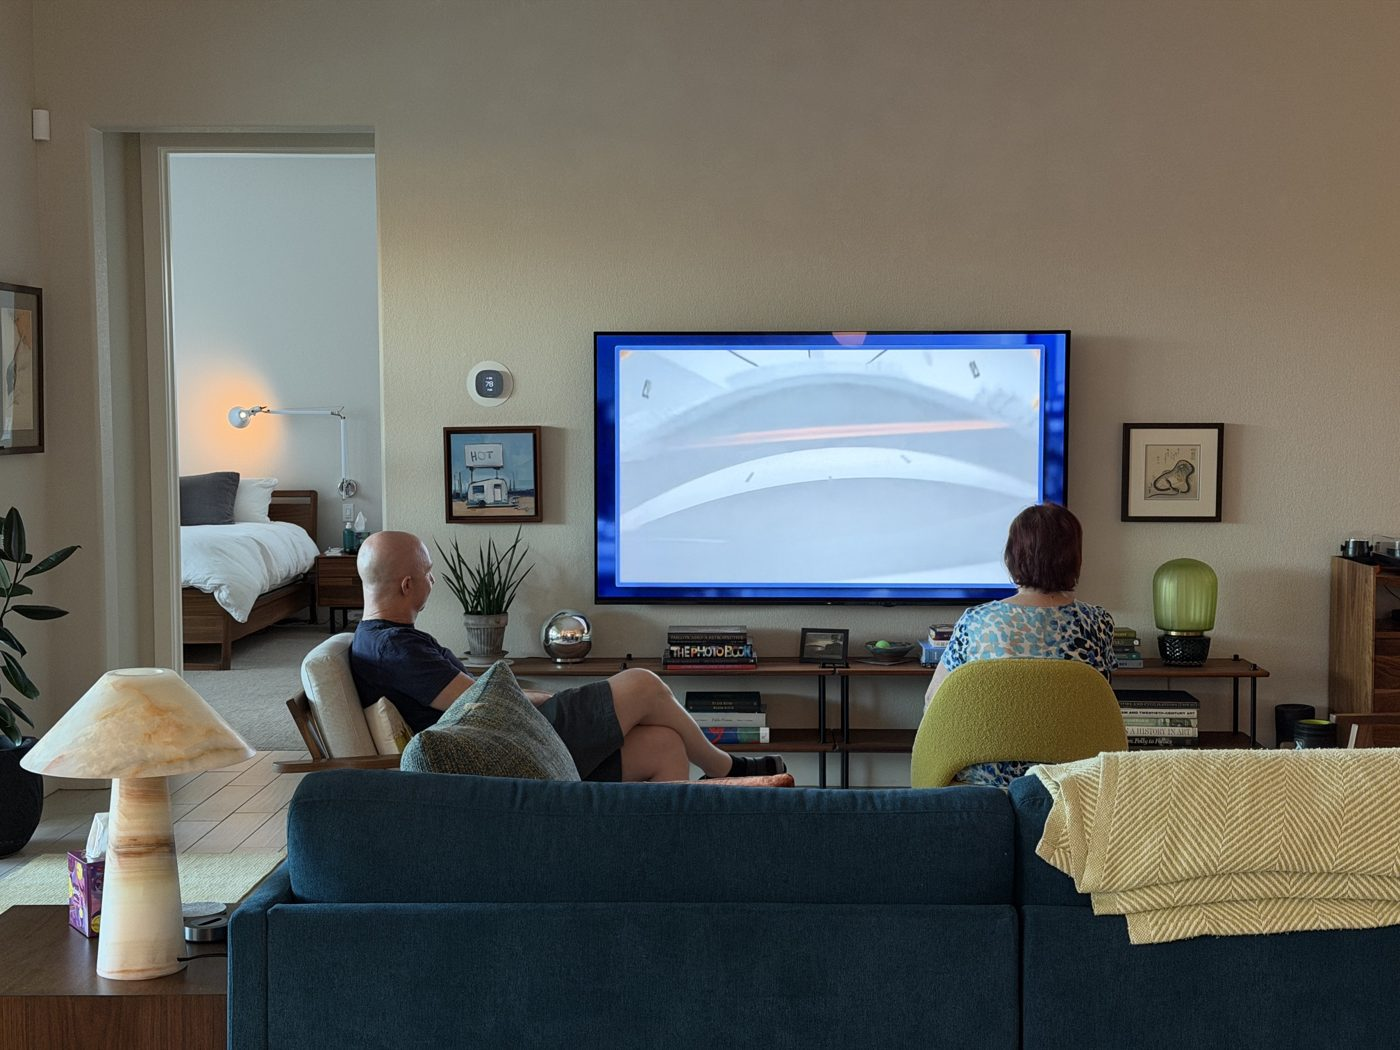
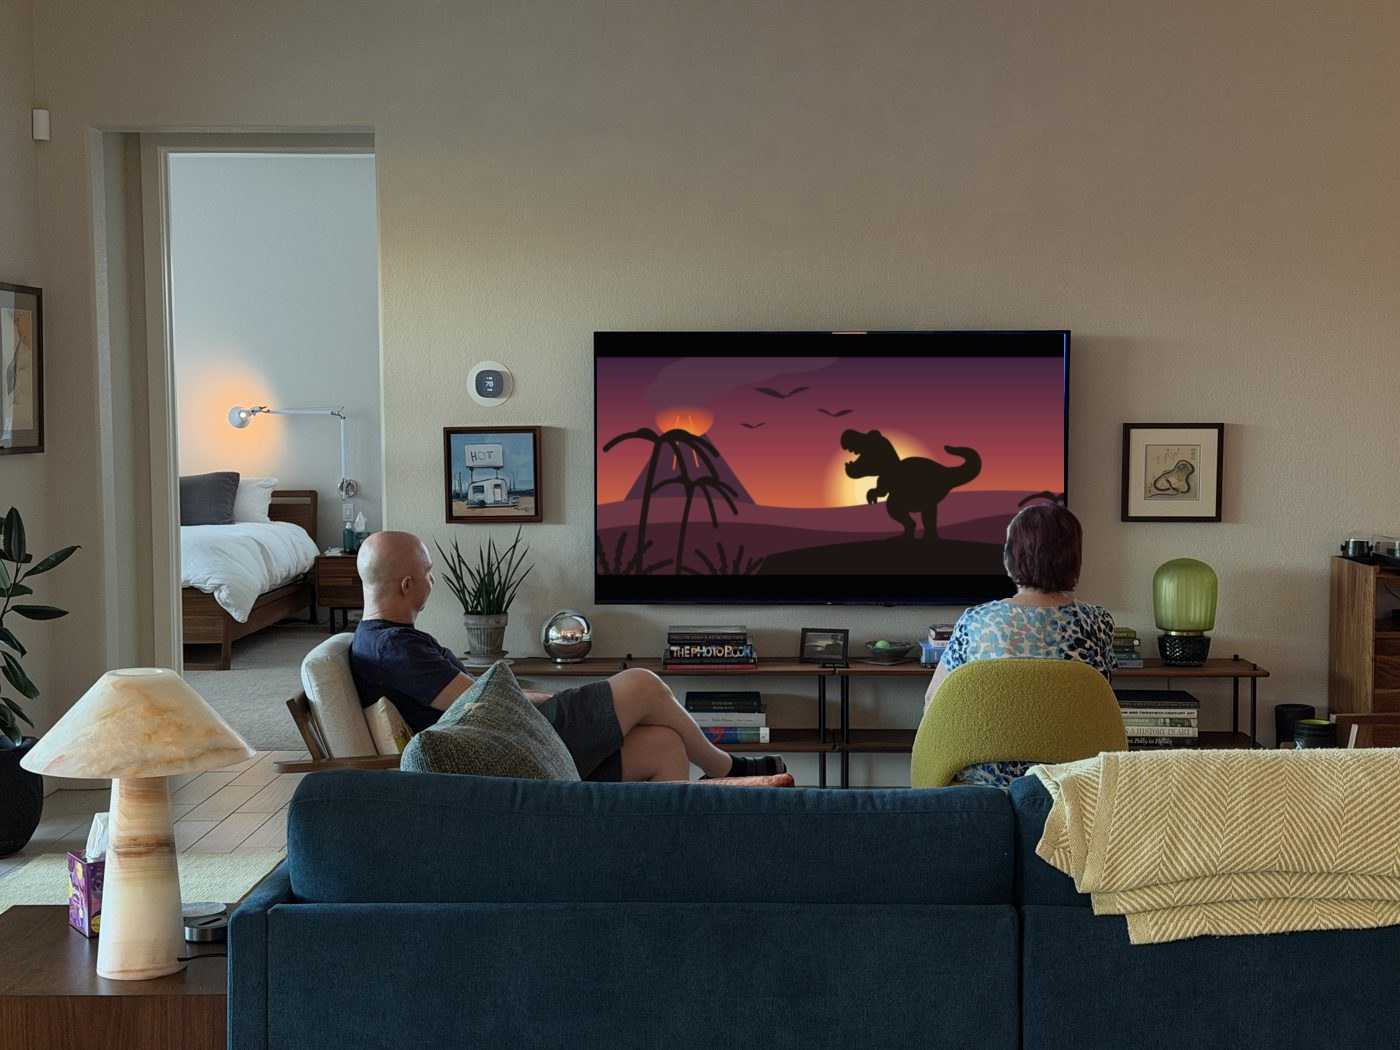
TV Rex photo: a pretend dinosaur movie on the TV
Claude-Session: https://claude.ai/code/session_01G4eNtXoy4AEMJh4PqHyZ2Y

Changed region(s): [[0.3993, 0.3048, 0.7679, 0.579]]

diff --git a/index.html b/index.html
@@ -50,7 +50,7 @@
 
         <article class="app-card">
           <span class="tag tag-left">Beta</span>
-          <img class="app-photo app-photo-tv" src="images/tv-rex-living-room.jpg" alt="Two people watching TV in a living room" width="1400" height="1050">
+          <img class="app-photo app-photo-tv" src="images/tv-rex-living-room.jpg?v=2" alt="Two people watching a dinosaur movie in a living room" width="1400" height="1050">
           <div class="app-body">
             <span class="kicker">tv.xoleigh.com</span>
             <h3>TV Rex</h3>
